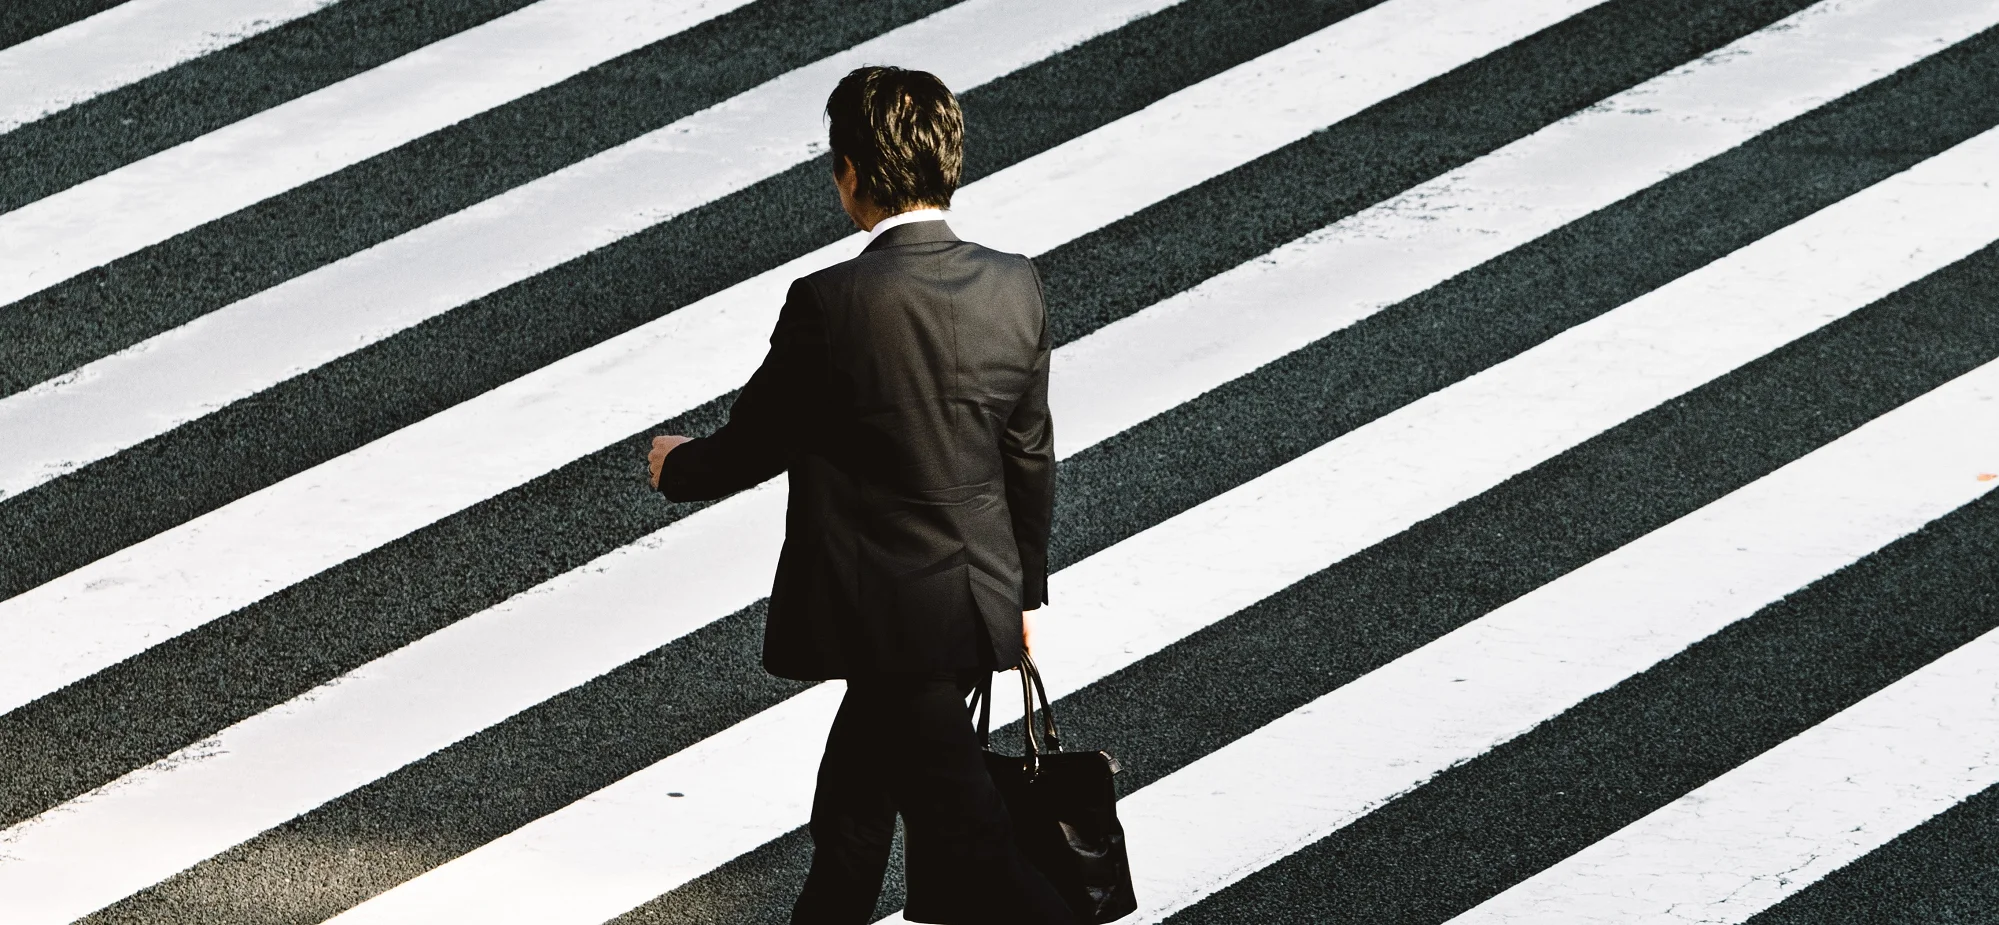
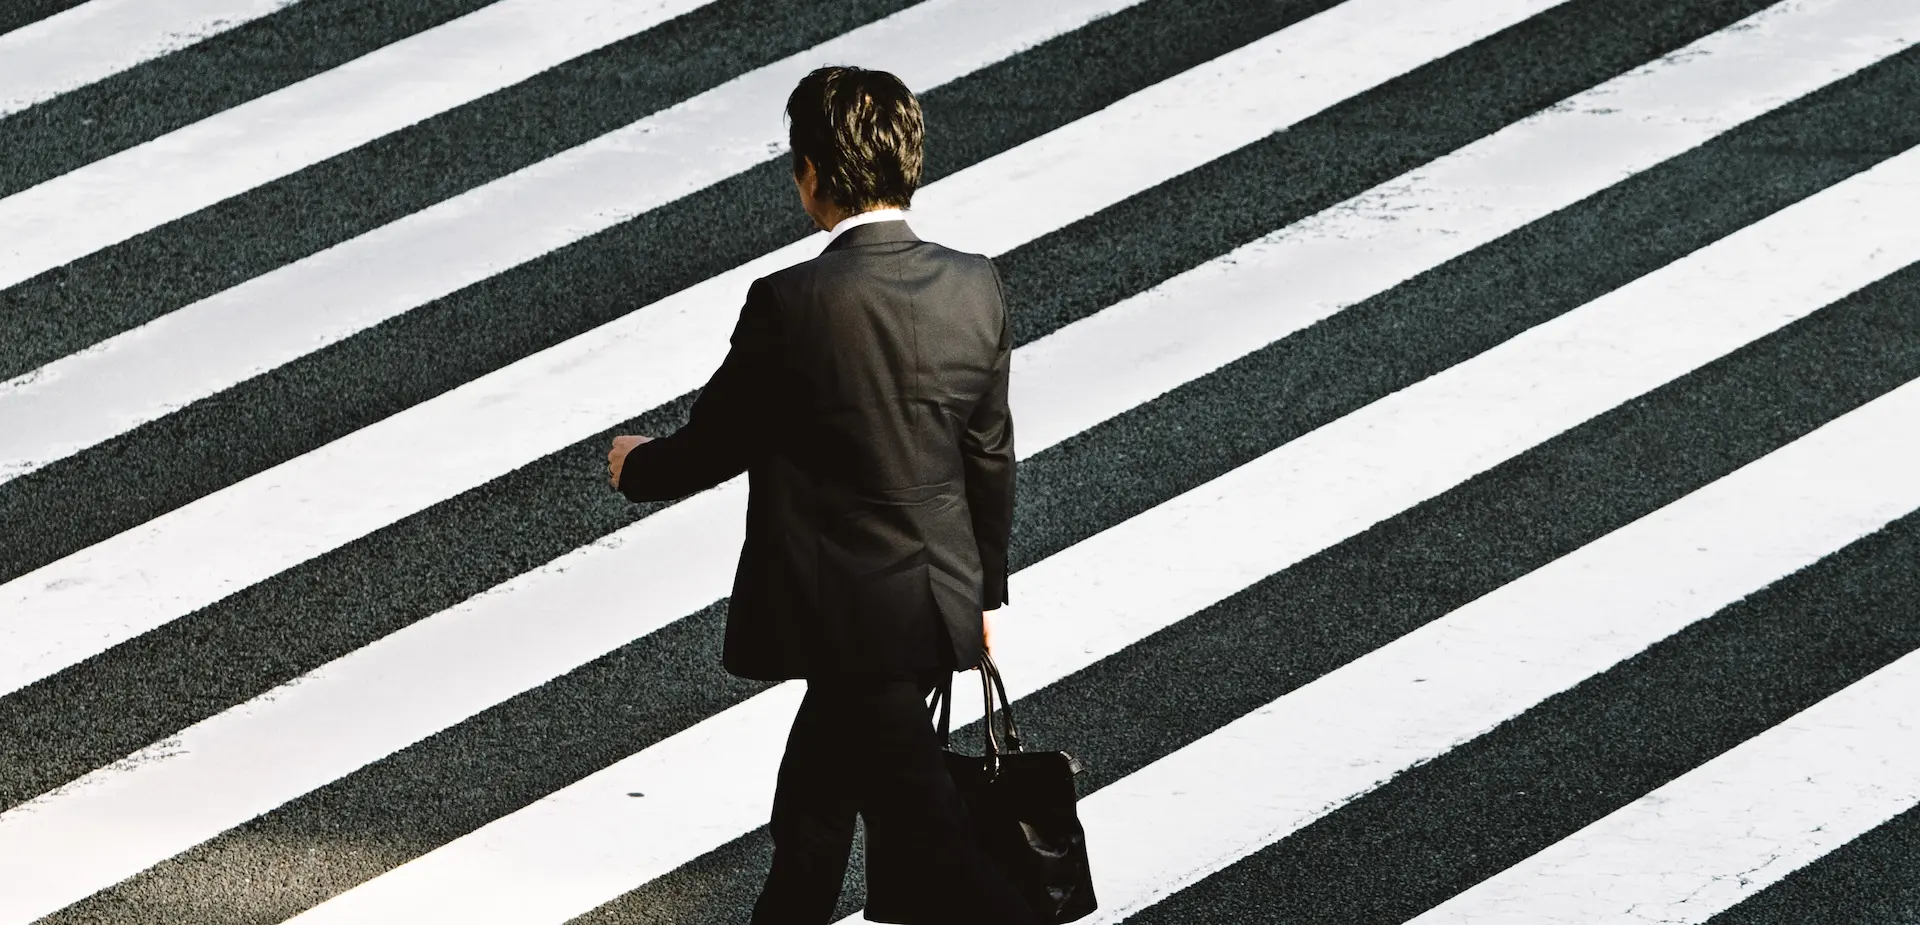
resize img slider

diff --git a/index.html b/index.html
@@ -91,7 +91,7 @@
 								srcset="./assets/images/slider/slider-mobile/crossing-man-small.webp">
 							<source media="(min-width: 481px)" srcset="./assets/images/slider/crossing-man.webp">
 							<img src="./assets/images/slider/crossing-man-default.webp"
-								alt="homme qui marche sur un passage piéton" class="d-block w-100" width="1999" height="925">
+								alt="homme qui marche sur un passage piéton" class="d-block w-100" width="1920" height="925">
 						</picture>
 					</div>
 					<div class="carousel-item">
@@ -109,7 +109,7 @@
 								srcset="./assets/images/slider/slider-mobile/wedding-kiss-small.webp">
 							<source media="(min-width: 481px)" srcset="./assets/images/slider/wedding-kiss.webp">
 							<img src="./assets/images/slider/wedding-kiss-default.webp" alt="un baiser de mariés"
-								class="d-block w-100"width="2001" height="925">
+								class="d-block w-100"width="1920" height="925">
 						</picture>
 					</div>
 				</div>
